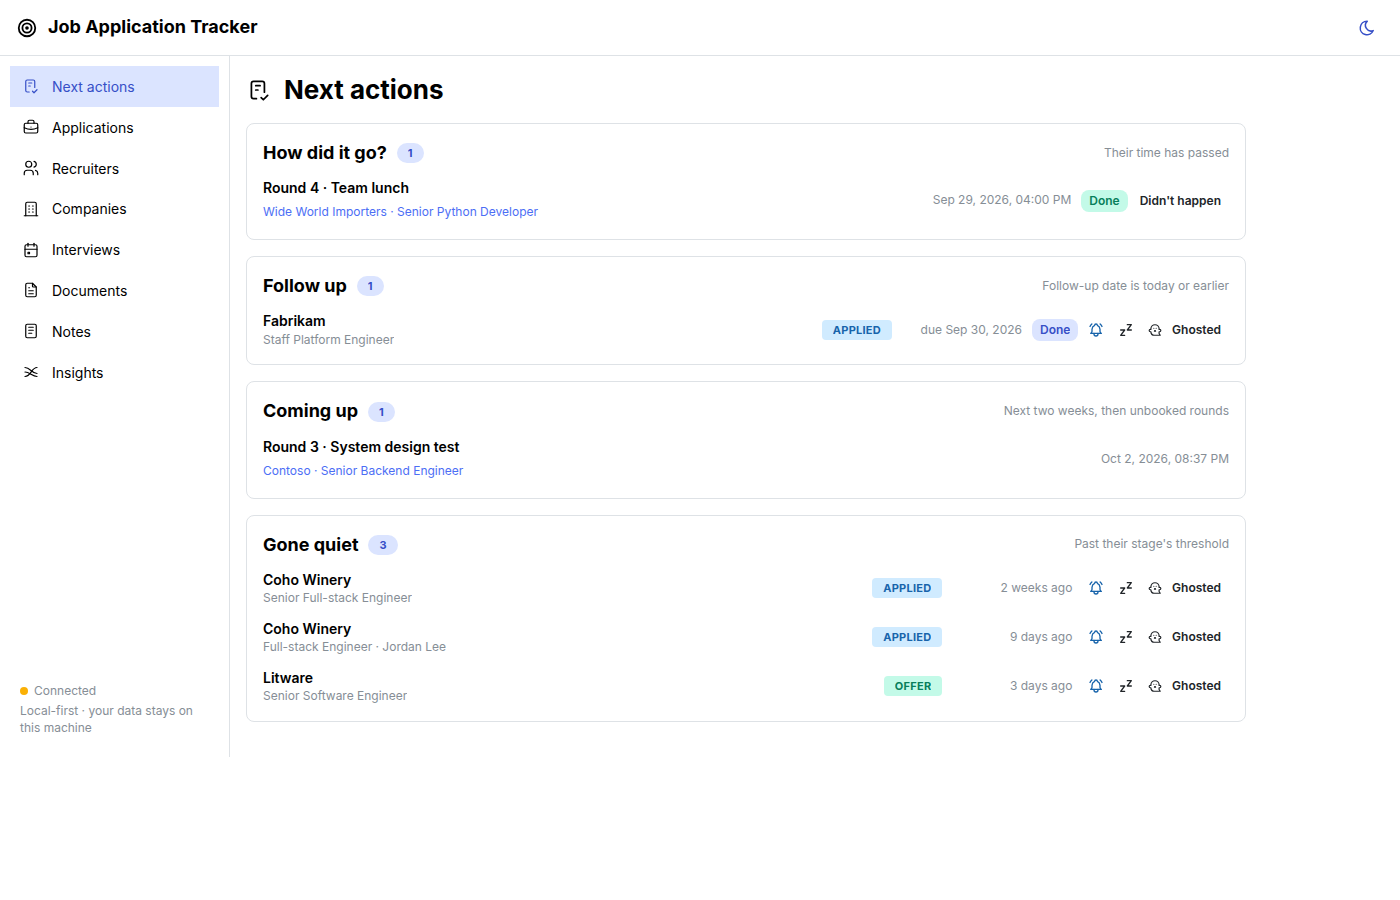
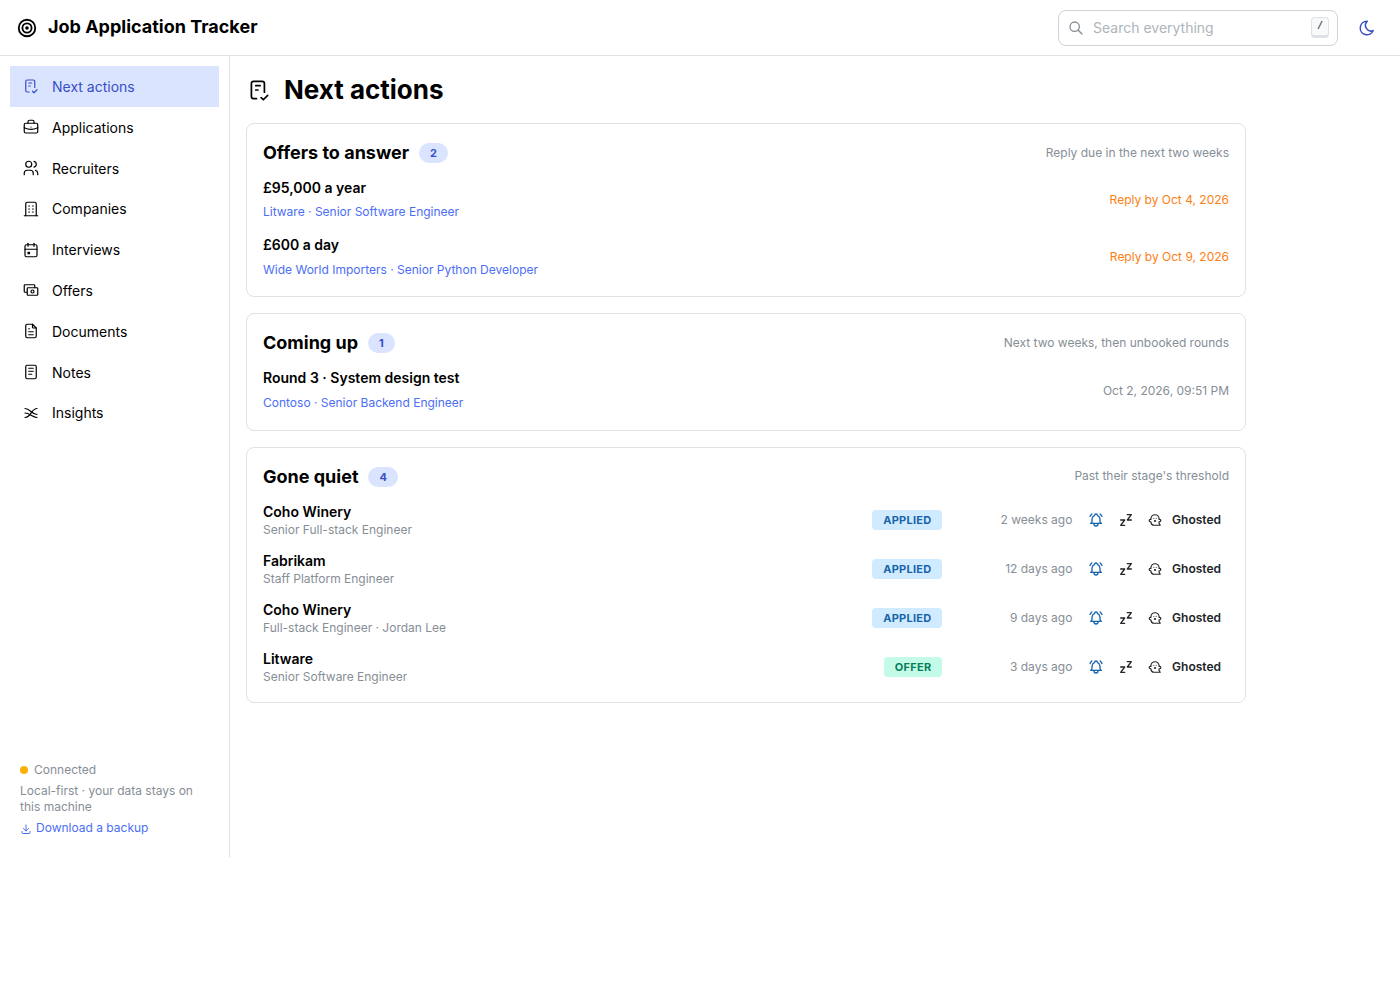
docs: v1 README and llms.txt refresh, changelog, new screenshots and tour GIF

diff --git a/README.md b/README.md
@@ -8,7 +8,7 @@ CRM, interview rounds, Markdown notes, CV versions, a *"who should I chase today
 Sankey diagram of your whole funnel.
 
 [![License: Apache 2.0](https://img.shields.io/badge/License-Apache_2.0-blue.svg)](LICENSE)
-![Status: early development](https://img.shields.io/badge/status-early%20development-orange)
+![Status: v1 release candidate](https://img.shields.io/badge/status-v1%20release%20candidate-blue)
 ![Local-first](https://img.shields.io/badge/data-100%25%20local-brightgreen)
 ![No tracking](https://img.shields.io/badge/telemetry-none-brightgreen)
 [![PRs welcome](https://img.shields.io/badge/PRs-welcome-blueviolet.svg)](#-contributing)
@@ -44,10 +44,10 @@ No job-board scraping. No SaaS. No account. **Your job search stays on your disk
 
 *All names and companies below are made-up demo data (`scripts/seed_demo.py`).*
 
-![A quick tour: Next actions, the Kanban board, an application page and Insights](docs/screenshots/demo.gif)
+![A quick tour: Next actions, the Kanban board, offers side by side, Insights and search](docs/screenshots/demo.gif)
 
-**Next actions, your home page.** What to chase today, what's coming up, and interviews
-waiting for an outcome. Follow up, snooze or mark Ghosted in one click.
+**Next actions, your home page.** Offers to answer, what to chase today, what's coming up,
+and interviews waiting for an outcome. Follow up, snooze or mark Ghosted in one click.
 
 ![Next actions: follow-ups due, interviews coming up and applications gone quiet](docs/screenshots/next-actions.png)
 
@@ -80,13 +80,17 @@ recruiters send roles that go somewhere.
 </tr>
 <tr>
 <td width="50%"><b>CV and cover-letter versions</b>, and where each one was sent<br><img src="docs/screenshots/documents.png" width="100%" alt="A CV with two versions, one sent"></td>
+<td width="50%"><b>Offers side by side</b>: a salary package against a contract day rate, worth-a-year first<br><img src="docs/screenshots/offers.png" width="100%" alt="Two offers compared: a permanent salary package and a contract day rate"></td>
+</tr>
+<tr>
+<td width="50%"><b>Search everything</b> (press <kbd>/</kbd>): applications, people, notes, debriefs, emails<br><img src="docs/screenshots/search.png" width="100%" alt="Search results for python across applications and notes"></td>
 <td width="50%"></td>
 </tr>
 </table>
 
 ## ✨ Features
 
-> 🚧 **Early development, but usable day to day.** Tracking, recruiters, interview rounds,
+> ✅ **Feature-complete for v1 (release candidate).** See the [changelog](CHANGELOG.md). Tracking, recruiters, interview rounds,
 > notes, links, files and emails, CV versions, the *Next actions* page, insights (Sankey
 > diagram, funnel stats, recruiter scorecards), offer comparison, one-click backups and
 > full-text search all work today. Everything marked ✅ is merged and running.
@@ -171,7 +175,7 @@ Later, from another terminal, `uv run jat push` sends the snapshots to your priv
 (never forced). Run `jat` from the repo root, where it reads `.env`.
 
 The server only listens on `127.0.0.1` by default. `uv run jat --help` lists the other
-commands (`export`, `restore`, `snapshot`, `migrate`, `info`).
+commands (`archive`, `export`, `restore`, `snapshot`, `migrate`, `info`).
 
 **Project dashboard.** `python3 -m tools.pm` (→ http://127.0.0.1:8767) shows the roadmap,
 progress and live PR status of the build itself. It needs nothing but Python; the

diff --git a/CHANGELOG.md b/CHANGELOG.md
@@ -1,0 +1,53 @@
+# Changelog
+
+## v1.0.0 (release candidate, not yet tagged)
+
+The first complete version: everything in the [roadmap](docs/ROADMAP.yaml) (phases P0–P6)
+is built and merged. Numbers in brackets are pull requests.
+
+### Tracking
+- **Applications list** with search and filters (stage, route, agency, "needs chasing",
+  archived) and a quick view (#14).
+- **Kanban board**: drag between stages, with the usual next stages highlighted (#15).
+- **Flexible workflow**: configurable stages; move from any stage to any stage by default,
+  or switch on Jira-style allowed transitions; full timestamped history and undo (#11, #23).
+- **Application, company, recruiter and agency pages** (#16, #17).
+- **Recruiter CRM**: agencies, recruiters and every way to reach them (#17).
+- **Duplicate-submission warning** when two routes lead to the same job (#20).
+- **Interview rounds and coding tasks**, numbered and described in your own words (#21).
+
+### Notes, files and documents
+- **Markdown notes** as real `.md` files, on anything or on their own (#24).
+- **Links** to job ads, Google Docs and repos (#25).
+- **File attachments** (#26) and **exported emails** (`.eml`) onto the timeline (#27).
+- **CV and cover-letter versions**, and which one each application got (#28).
+
+### Staying on top of it
+- **Next actions** home page: follow-ups due, applications gone quiet, interviews coming up,
+  rounds waiting for an outcome (#29) and offers to answer (#38).
+- **One-click follow-up, snooze and Ghosted** (#30).
+
+### Insights
+- **Sankey diagram** of how applications move through the stages (#34).
+- **Funnel stats**: conversion and median time per stage, direct vs recruiter outcomes,
+  weekly activity (#35).
+- **Recruiter and agency scorecard** (#36).
+
+### Extras
+- **Offer comparison**: salary packages and contract day rates side by side, with a
+  worth-a-year figure (#38).
+- **One-click backup**: the whole data directory as a zip, or `jat archive` (#39).
+- **Full-text search** across everything, notes included; press `/` (#40).
+
+### Under the hood
+- Python 3.12, FastAPI, SQLAlchemy, Alembic and SQLite; React 19, TypeScript, Mantine and
+  TanStack Router/Query (#6–#9).
+- Your data lives in its own folder: SQLite for speed plus a readable JSON Lines export,
+  auto-committed to a private git repo after each burst of changes, pushed only when you
+  ask (#7, #8, #13).
+- Localhost only: refuses other hosts and cross-site writes (#26).
+- A local project dashboard for the build itself (`python3 -m tools.pm`) (#4).
+
+### Left out on purpose
+No job-board searching or scraping, no quick-add from URLs, no MCP server and no `.ics`
+calendar export.
